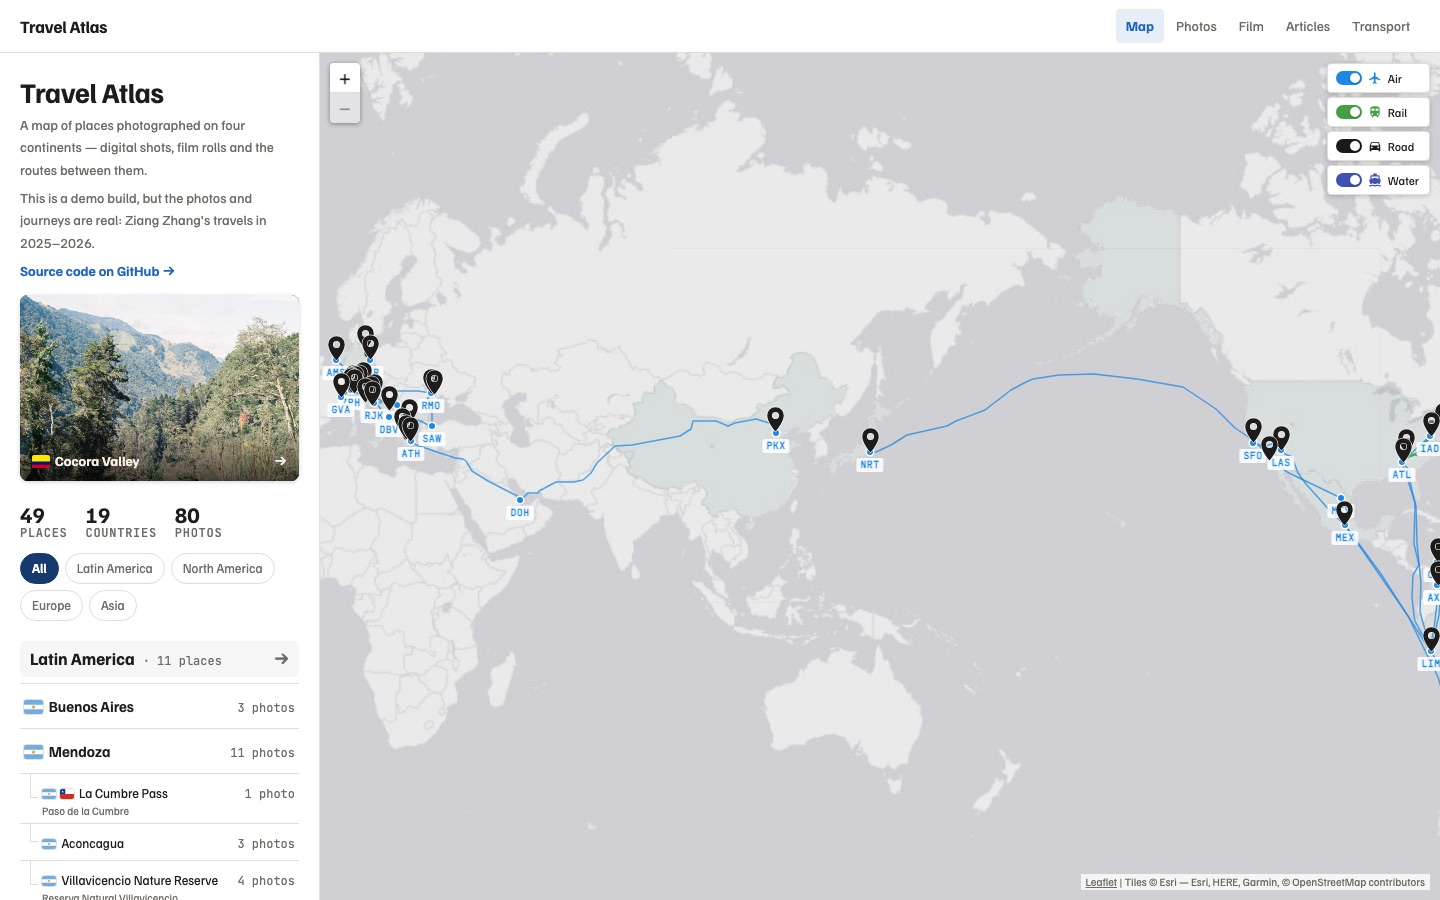
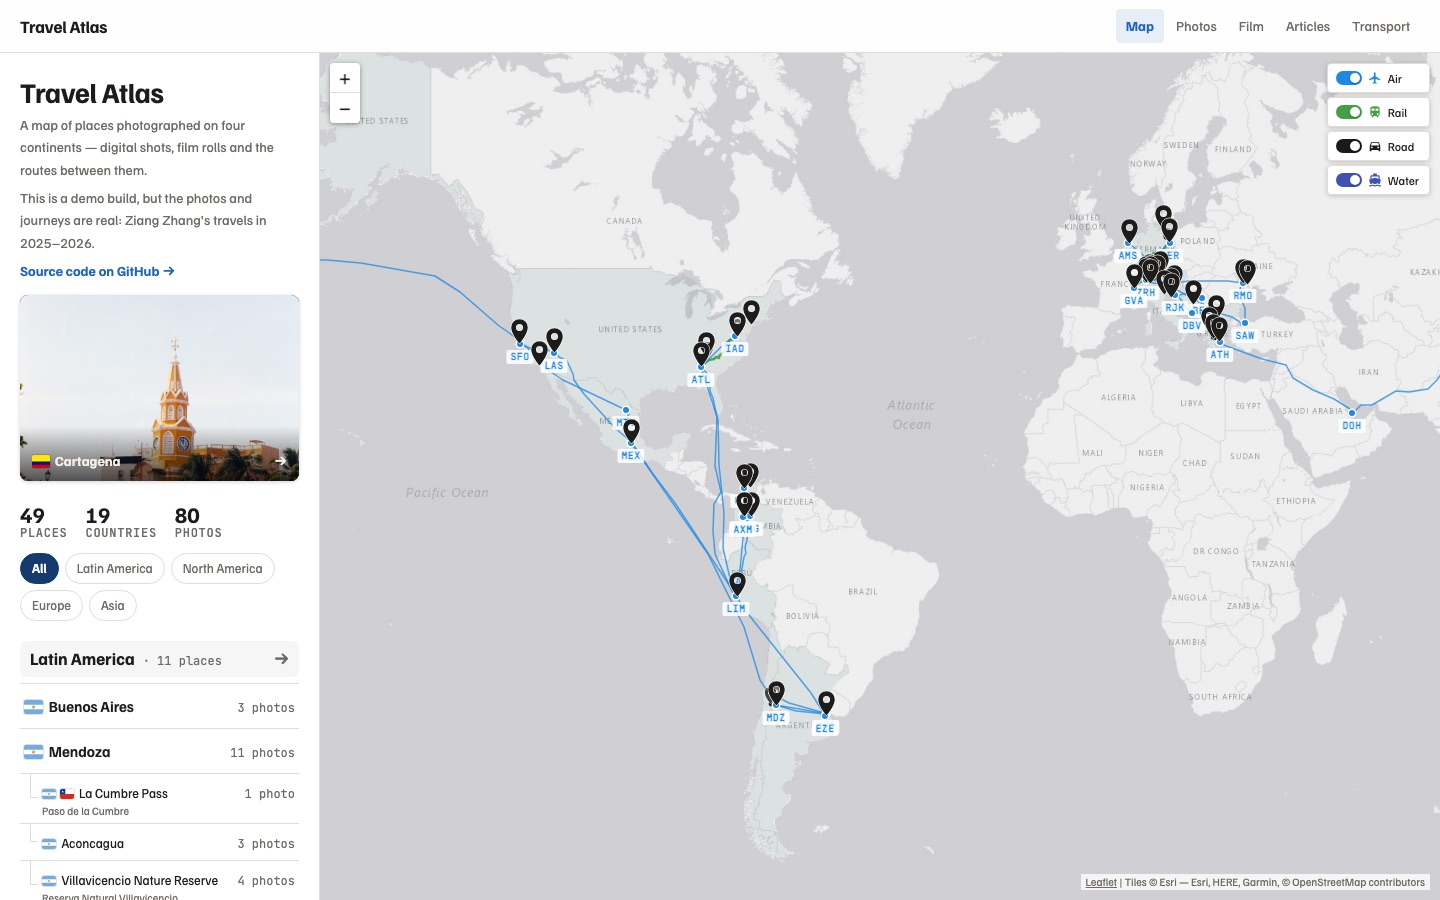
Open the map on the Americas instead of the Pacific
The default view (on load and for "All") was centred on the Pacific, which
cut the Americas in half on desktop screens. It now fits a fixed
geographic box to the window with Leaflet's fitBounds centre and zoom:

- desktop: 56°S–60°N, 126°W–32°E: the United States left of centre,
  Europe on the right, South America in full
- phone widths (the 760px CSS breakpoint): 126°W–34°W, the Americas

Fixed boxes rather than the extent of the places, so adding a place does
not move the opening view. Everything is still drawn in three world
copies, so flights crossing 180° continue west across the Pacific
instead of spanning the map. Map screenshot retaken at 1440x900.

diff --git a/assets/app.js b/assets/app.js
@@ -317,7 +317,7 @@ const mercY = lat => Math.log(Math.tan(Math.PI/4 + lat*Math.PI/360));
 document.documentElement.style.setProperty("--map-aspect", (2*Math.PI / (mercY(LAT_BAND.getNorth()) - mercY(LAT_BAND.getSouth()))).toFixed(4));
 const map = L.map("map",{worldCopyJump:true, zoomControl:true, zoomSnap:0.25, zoomDelta:0.5,
   wheelPxPerZoomLevel:110, wheelDebounceTime:15, scrollWheelZoom:false,
-  maxBounds:LAT_BAND, maxBoundsViscosity:1}).setView([25,160],2);
+  maxBounds:LAT_BAND, maxBoundsViscosity:1}).setView([5,-47],2);            // worldView() sets the real default view once the page is ready
 // Turn zoomSnap off temporarily to set an exact view: setView / getBoundsZoom normally snap to multiples of 0.25, which on phones crops the world or leaves gaps
 function exactly(fn){
   const snap = map.options.zoomSnap;
@@ -403,8 +403,8 @@ const PIN_ICONS = {
   big:   L.divIcon({className:"pin big",   html:pinSvg(19,26), iconSize:[32,32], iconAnchor:[16,30], tooltipAnchor:[0,-29], popupAnchor:[0,-27]}),
   small: L.divIcon({className:"pin small", html:pinSvg(13,18), iconSize:[32,32], iconAnchor:[16,25], tooltipAnchor:[0,-20], popupAnchor:[0,-18]}),
 };
-// The default view is centred on the Pacific with the Americas in the right-hand copy of the world, so markers, country fills and state borders are drawn three times
-// (longitude -360 / 0 / +360) and show wherever the map is dragged. markers[id] returns the copy nearest the map centre.
+// Markers, country fills and state borders are drawn three times (longitude -360 / 0 / +360), so they show wherever the map is dragged
+// and flights split at 180° join up across the Pacific. markers[id] returns the copy nearest the map centre.
 const COPIES = [-360, 0, 360];
 const markerSets = {};
 const markers = new Proxy({}, {get:(_,id)=>{
@@ -652,29 +652,20 @@ function focusTransport(mode,id){
     r.hit.openPopup(r.mid);
   }).catch(()=>{});
 }
-// Default view (on load, refresh, or "All"): the Pacific in the middle, Iceland-ish on the left, the Americas on the right; free to drag afterwards
-// It frames every place, adding 360° to western longitudes so the Pacific sits in the middle with Europe left and the Americas right
-const placesBounds = () => L.latLngBounds(CITIES.map(c=>[c.lat, c.lng < -25 ? c.lng+360 : c.lng]));
+// Default view (on load, refresh, or "All"): the Americas, with the United States left of centre, Europe on the right and
+// South America in full; on phone widths (the CSS breakpoint) the Americas alone. Asia is a drag away: everything is drawn
+// in three world copies, and flights crossing 180° continue west across the Pacific.
+// Fixed geographic boxes, fitted to the window: any screen size frames the same area, and adding a place does not move it
+const HOME_WIDE = L.latLngBounds([-56,-126], [60,32]);     // Cape Horn to southern Scandinavia, US West Coast to the Black Sea
+const HOME_NARROW = L.latLngBounds([-56,-126], [60,-34]);  // the Americas only
+const narrowScreen = matchMedia("(max-width:760px)");
 function worldView(animate){
   worldViewShown = true;
   fitMinZoom();
   const size = map.getSize();
   if(!size.x || !size.y) return;                         // map still hidden (the photos page etc. was opened directly); resize runs this again once it shows
-  const b = placesBounds(), pad = 30, min = map.getMinZoom();
-  // if a full circle of longitude fits at minimum zoom (portrait phones, ultra-wide screens), stay there to show the whole world; otherwise frame every place
-  const zoom = size.x >= 256 * 2**min - 2 ? min : Math.max(min, map.getBoundsZoom(b, false, L.point(pad*2, pad*2)));
-  let center = b.getCenter();
-  // filling the height can leave the minimum zoom too close to fit every place (desktop widths, portrait tablets): then centre on the longitude that shows the most places
-  const span = (size.x - pad*2) * 360 / (256 * 2**zoom);                    // degrees of longitude visible across at this zoom
-  if(span < b.getEast() - b.getWest()){
-    const lngs = CITIES.map(c => c.lng < -25 ? c.lng+360 : c.lng);
-    let best = null;
-    for(let x = b.getWest(); x <= b.getEast(); x += 2){
-      const n = lngs.filter(l => Math.abs(l - x) <= span/2).length;
-      if(!best || n > best.n || (n === best.n && Math.abs(x - center.lng) < Math.abs(best.x - center.lng))) best = {x, n};
-    }
-    center = L.latLng(center.lat, best.x);
-  }
+  // fitBounds' own centre and zoom (projected midpoint, padding, never below the minimum zoom); exactly() keeps an unrounded minimum zoom as it is
+  let {center, zoom} = map._getBoundsCenterZoom(narrowScreen.matches ? HOME_NARROW : HOME_WIDE, {padding:[24,24]});
   center = map._limitCenter(center, zoom, LAT_BAND);                      // flyTo ignores maxBounds, so clamp to the latitude band first
   animate ? map.flyTo(center, zoom, {duration:1}) : exactly(() => map.setView(center, zoom, {animate:false}));
 }
